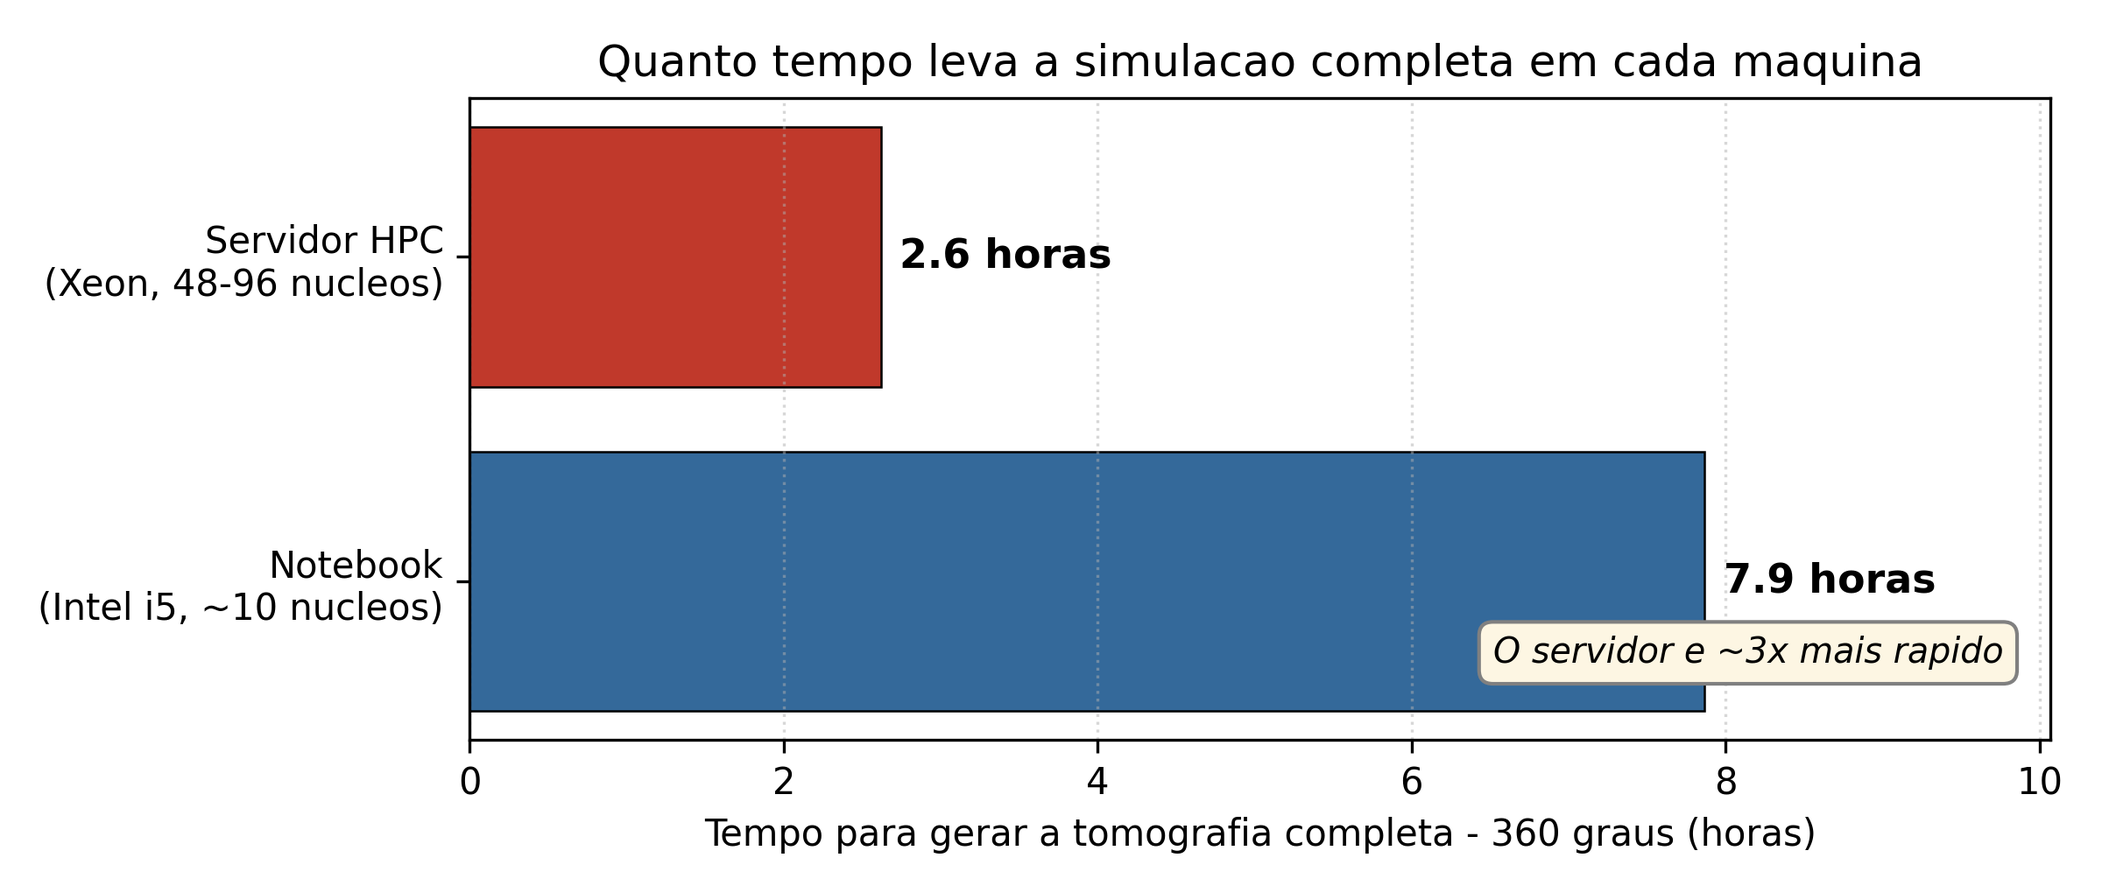
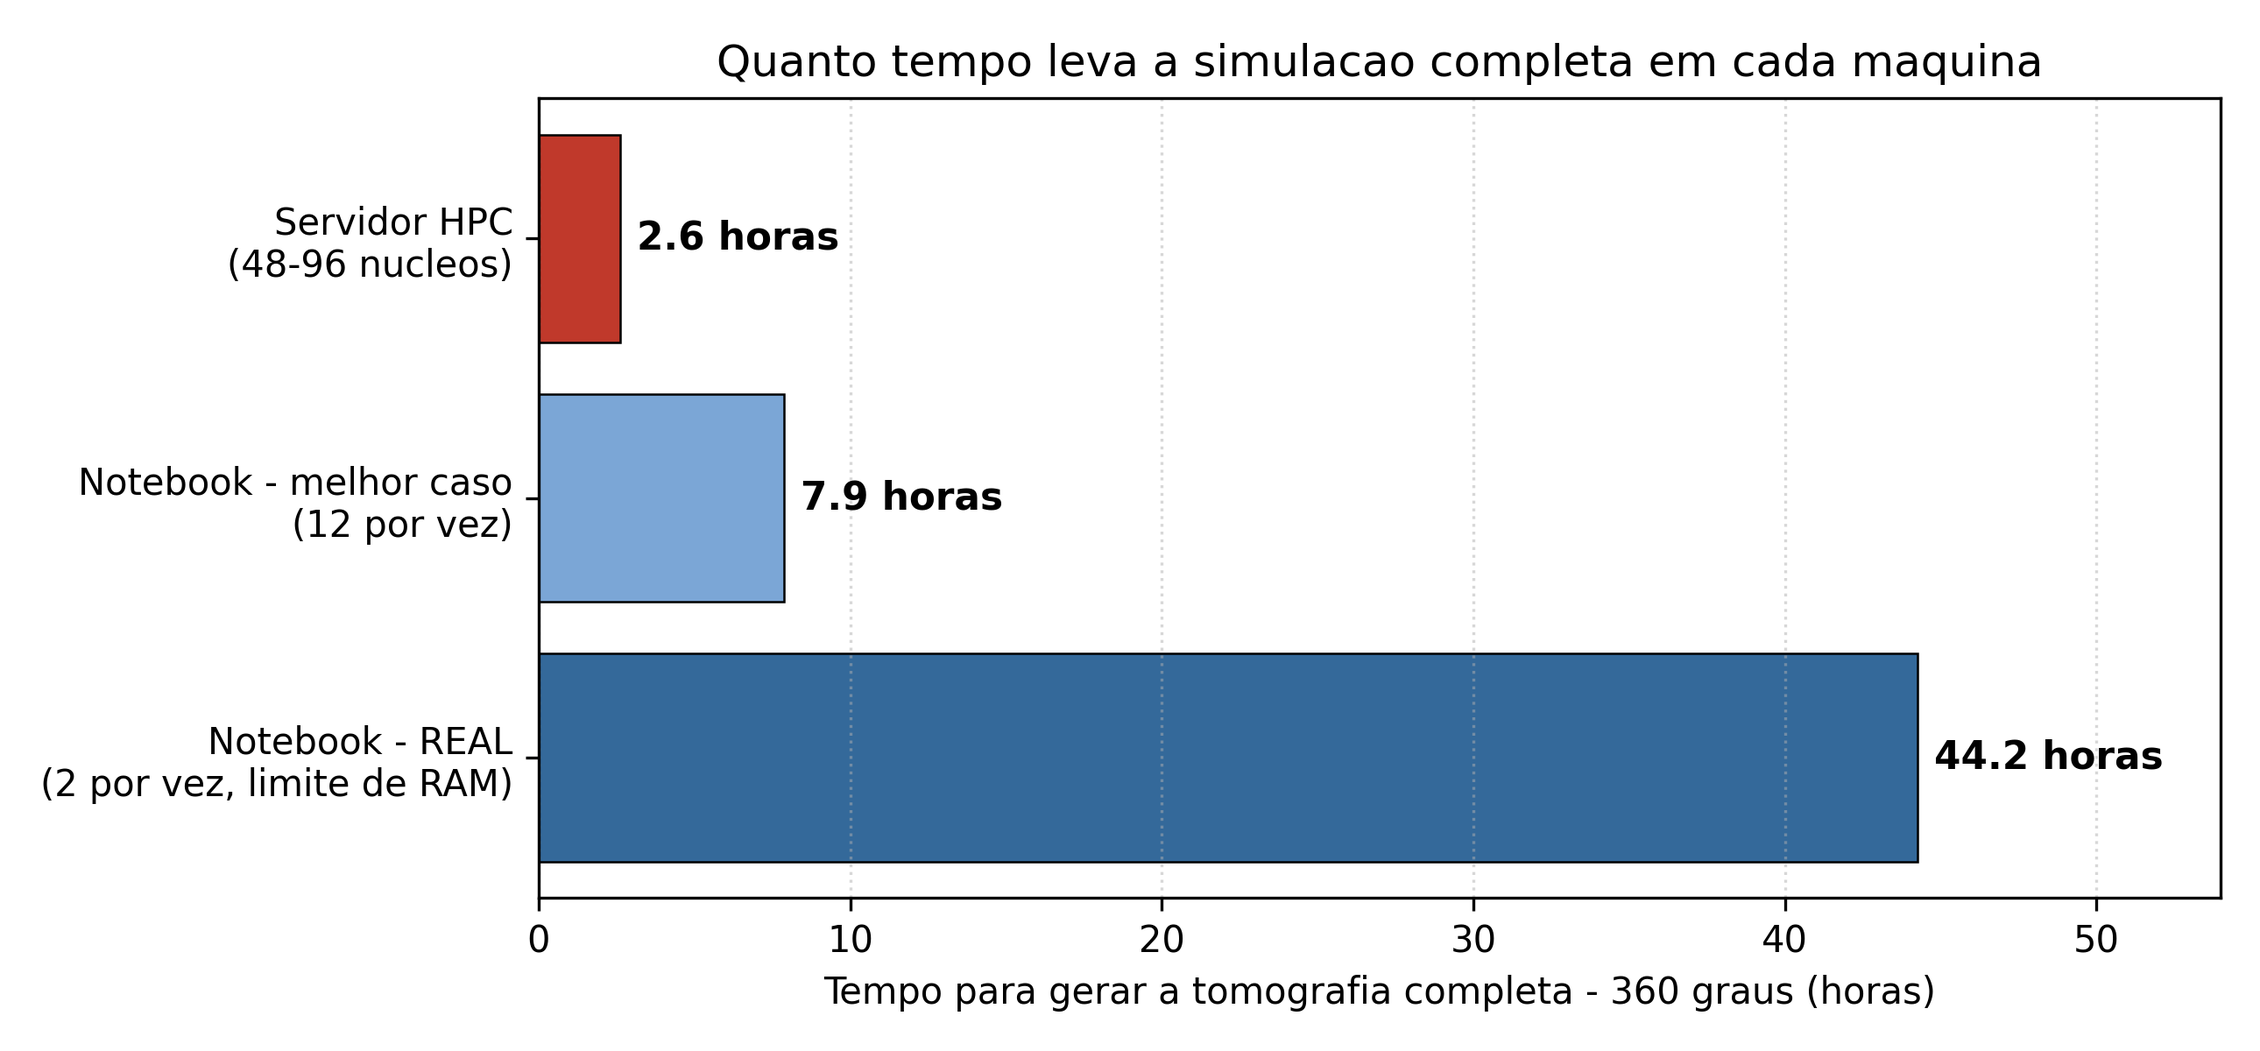
feat: atualizar análise de desempenho e gráficos de comparação entre máquinas

Changed region(s): [[0.0, 0.0304, 1.0, 0.9725]]

diff --git a/tomografias_npy/tcc_resultados/gerar_resumo_pdf.py b/tomografias_npy/tcc_resultados/gerar_resumo_pdf.py
@@ -1,0 +1,238 @@
+#!/usr/bin/env python3
+# -*- coding: utf-8 -*-
+"""Gera um PDF com o resumo passo a passo da analise de desempenho do TCC."""
+import os
+from reportlab.lib.pagesizes import A4
+from reportlab.lib.units import cm
+from reportlab.lib import colors
+from reportlab.lib.styles import getSampleStyleSheet, ParagraphStyle
+from reportlab.lib.enums import TA_JUSTIFY, TA_CENTER
+from reportlab.platypus import (SimpleDocTemplate, Paragraph, Spacer, Table,
+                                TableStyle, Image, HRFlowable, KeepTogether)
+
+HERE = os.path.dirname(os.path.abspath(__file__))
+OUT = r"C:\Users\wilso\Downloads\resumo_tcc_desempenho.pdf"
+
+NAVY = colors.HexColor("#1f3b63")
+RED = colors.HexColor("#c0392b")
+GRAY = colors.HexColor("#555555")
+LGRAY = colors.HexColor("#eef1f5")
+
+ss = getSampleStyleSheet()
+H1 = ParagraphStyle("H1", parent=ss["Heading1"], textColor=NAVY, fontSize=15,
+                    spaceBefore=14, spaceAfter=6)
+H2 = ParagraphStyle("H2", parent=ss["Heading2"], textColor=RED, fontSize=11.5,
+                    spaceBefore=10, spaceAfter=4)
+BODY = ParagraphStyle("BODY", parent=ss["BodyText"], fontSize=9.7, leading=14,
+                      alignment=TA_JUSTIFY, spaceAfter=5)
+BULLET = ParagraphStyle("BULLET", parent=BODY, leftIndent=12, bulletIndent=2,
+                        spaceAfter=2)
+TITLE = ParagraphStyle("TITLE", parent=ss["Title"], textColor=NAVY, fontSize=20,
+                       leading=24)
+SUB = ParagraphStyle("SUB", parent=ss["Normal"], fontSize=10.5, textColor=GRAY,
+                     alignment=TA_CENTER, spaceAfter=2)
+CAP = ParagraphStyle("CAP", parent=ss["Normal"], fontSize=8, textColor=GRAY,
+                     alignment=TA_CENTER, spaceBefore=2, spaceAfter=8)
+
+story = []
+
+
+def h1(t): story.append(Paragraph(t, H1))
+def h2(t): story.append(Paragraph(t, H2))
+def p(t): story.append(Paragraph(t, BODY))
+def b(t): story.append(Paragraph("&bull;&nbsp; " + t, BULLET))
+def sp(h=6): story.append(Spacer(1, h))
+
+
+def fig(name, caption, width=15*cm):
+    path = os.path.join(HERE, name)
+    if os.path.exists(path):
+        from reportlab.lib.utils import ImageReader
+        iw, ih = ImageReader(path).getSize()
+        img = Image(path, width=width, height=width*ih/iw)
+        story.append(KeepTogether([img, Paragraph(caption, CAP)]))
+
+
+# ---------------------------------------------------------------- capa
+story.append(Spacer(1, 10))
+story.append(Paragraph("Analise de Desempenho e Paralelizacao", TITLE))
+story.append(Paragraph("Pipeline de simulacao de dose CBCT (GATE 10 + Snakemake)", SUB))
+story.append(Paragraph("Resumo passo a passo &mdash; TCC", SUB))
+sp(4)
+story.append(HRFlowable(width="100%", color=NAVY, thickness=1.2))
+sp(10)
+
+# ---------------------------------------------------------------- 1
+h1("1. Objetivo da analise")
+p("Avaliar e documentar o desempenho do pipeline e justificar, de forma honesta, "
+  "por que a producao dos resultados definitivos foi feita no servidor de alto "
+  "desempenho (HPC) e nao na maquina local.")
+p("<b>Pergunta inicial:</b> &ldquo;da para estimar os dados do HPC tendo so os "
+  "locais + a configuracao?&rdquo; <b>Resposta:</b> em parte. O que importa para o "
+  "desempenho (a simulacao) foi <b>medido</b> de verdade; as demais etapas sao "
+  "desprezveis e nao precisam ser fabricadas.")
+
+# ---------------------------------------------------------------- 2
+h1("2. Hardware comparado")
+data = [["", "Servidor HPC", "Notebook (local)"],
+        ["Processador", "2x Xeon Gold 5318Y @2,1 GHz", "Intel Core i5-1335U"],
+        ["Nucleos fisicos", "48 (24 x 2 sockets)", "10 (2 performance + 8 efic.)"],
+        ["Threads logicos", "96", "12"],
+        ["RAM", "503 GB", "7,6 GB (ambiente WSL)"],
+        ["GPUs", "L40S 46GB, A5000, A4000", "(integrada)"]]
+t = Table(data, colWidths=[3.4*cm, 6.2*cm, 6.2*cm])
+t.setStyle(TableStyle([
+    ("BACKGROUND", (0, 0), (-1, 0), NAVY),
+    ("TEXTCOLOR", (0, 0), (-1, 0), colors.white),
+    ("FONTNAME", (0, 0), (-1, 0), "Helvetica-Bold"),
+    ("FONTNAME", (0, 1), (0, -1), "Helvetica-Bold"),
+    ("FONTSIZE", (0, 0), (-1, -1), 8.5),
+    ("ROWBACKGROUNDS", (0, 1), (-1, -1), [colors.white, LGRAY]),
+    ("GRID", (0, 0), (-1, -1), 0.4, colors.HexColor("#cccccc")),
+    ("VALIGN", (0, 0), (-1, -1), "MIDDLE"),
+    ("TOPPADDING", (0, 0), (-1, -1), 4),
+    ("BOTTOMPADDING", (0, 0), (-1, -1), 4)]))
+story.append(t)
+sp(4)
+p("Descoberta-chave: o nucleo do <b>notebook e ~2,4x mais rapido</b> que o do Xeon "
+  "(5075 vs 2119 particulas/s por thread). A vantagem do HPC <b>nao</b> e velocidade "
+  "por nucleo &mdash; e <b>quantidade</b> de nucleos.")
+
+# ---------------------------------------------------------------- 3
+h1("3. Onde o tempo do pipeline e gasto")
+p("As 6 etapas foram medidas pela diretiva <font face='Courier'>benchmark</font> do "
+  "Snakemake. A <b>simulacao Monte Carlo (GATE) concentra 81,4%</b> do tempo total; "
+  "as outras cinco etapas somadas dao apenas 48,3 s (18,6%).")
+p("<b>Conclusao:</b> a simulacao e o unico gargalo relevante. Por isso o estudo de "
+  "desempenho foca nela &mdash; e as demais etapas, por serem desprezveis, nao "
+  "precisaram de dados fabricados do HPC.")
+fig("fig1_perfil_etapas.png", "Figura 1 - Tempo por etapa (maquina local).")
+
+# ---------------------------------------------------------------- 4
+h1("4. Memoria (RAM)")
+p("O pico de memoria ocorre na segmentacao com o TotalSegmentator: <b>5,06 GB</b>. "
+  "Cabe folgado nas duas maquinas. Como o consumo depende do tamanho do dado "
+  "(volume 256^3) e do modelo, ele e <b>independente da plataforma</b> &mdash; os "
+  "valores locais valem como referencia tambem para o HPC.")
+
+# ---------------------------------------------------------------- 5
+h1("5. A simulacao e o paralelismo")
+b("A aquisicao de <b>360 graus</b> = 360 projecoes ao redor do paciente.")
+b("<b>n = 4</b>: cada execucao do script faz 4 projecoes. Logo, <b>360 / 4 = 90 "
+  "execucoes</b> cobrem a volta completa.")
+b("As 90 execucoes sao <b>independentes</b> (nao trocam informacao) &mdash; "
+  "&ldquo;paralelismo trivial&rdquo;: podem rodar todas ao mesmo tempo.")
+b("<b>Leva</b> = uma rodada de execucoes rodando simultaneamente. O numero de "
+  "levas determina o tempo total.")
+
+# ---------------------------------------------------------------- 6
+h1("6. A formula da escalabilidade")
+fb = ParagraphStyle("fb", parent=BODY, alignment=TA_CENTER, fontSize=11,
+                    textColor=NAVY, spaceBefore=4, spaceAfter=4)
+story.append(Paragraph("<b>Tempo total = teto(90 / nucleos) &times; tempo de uma execucao</b>", fb))
+p("Quanto mais nucleos, mais execucoes cabem por leva, menos levas, menos tempo. "
+  "<font face='Courier'>teto()</font> arredonda para cima, porque uma execucao e "
+  "indivisivel (nao da para fazer meia leva).")
+fig("fig3_escalabilidade.png", "Figura 2 - Tempo cai conforme aumentam os nucleos (HPC).", 14*cm)
+
+# ---------------------------------------------------------------- 7
+h1("7. Tempo da aquisicao completa em cada maquina")
+data2 = [["Configuracao", "1 execucao", "Por leva", "Levas", "Total"],
+         ["Servidor HPC (96 threads)", "2,62 h", "90", "teto(90/96)=1", "2,6 h"],
+         ["Servidor HPC (48 nucleos)", "2,62 h", "48", "teto(90/48)=2", "5,2 h"],
+         ["Notebook - melhor caso", "59 min", "12", "teto(90/12)=8", "7,9 h"],
+         ["Notebook - REAL (limite RAM)", "59 min", "2", "teto(90/2)=45", "44 h"]]
+t2 = Table(data2, colWidths=[5.6*cm, 2.4*cm, 2.0*cm, 3.0*cm, 2.2*cm])
+t2.setStyle(TableStyle([
+    ("BACKGROUND", (0, 0), (-1, 0), NAVY),
+    ("TEXTCOLOR", (0, 0), (-1, 0), colors.white),
+    ("FONTNAME", (0, 0), (-1, 0), "Helvetica-Bold"),
+    ("FONTSIZE", (0, 0), (-1, -1), 8.3),
+    ("ROWBACKGROUNDS", (0, 1), (-1, -1), [colors.white, LGRAY]),
+    ("GRID", (0, 0), (-1, -1), 0.4, colors.HexColor("#cccccc")),
+    ("ALIGN", (1, 0), (-1, -1), "CENTER"),
+    ("TEXTCOLOR", (4, 1), (4, 2), RED),
+    ("FONTNAME", (4, 1), (4, -1), "Helvetica-Bold"),
+    ("TOPPADDING", (0, 0), (-1, -1), 4),
+    ("BOTTOMPADDING", (0, 0), (-1, -1), 4)]))
+story.append(t2)
+sp(4)
+b("<b>Servidor:</b> limitado pelos <b>nucleos</b> (RAM de 503 GB sobra). As 90 "
+  "execucoes cabem em 1 leva -&gt; 2,6 h.")
+b("<b>Notebook:</b> limitado pela <b>RAM</b> (7,6 GB / 2,8 GB por execucao = so 2 "
+  "por vez) -&gt; 45 levas -&gt; ~44 h reais. Os 7,9 h sao so o melhor caso "
+  "teorico (se tivesse RAM para 12 execucoes).")
+fig("fig4_comparacao_maquinas.png", "Figura 3 - Tempo total por maquina (mesma qualidade, 5x10^6).", 14*cm)
+
+# ---------------------------------------------------------------- 8
+h1("8. Conceitos-chave (glossario)")
+b("<b>Execucao (ou &lsquo;job&rsquo;):</b> uma rodada do script de simulacao = 4 "
+  "projecoes (n=4). Sao 90 para cobrir os 360 graus.")
+b("<b>Leva:</b> rodada de execucoes que rodam ao mesmo tempo. teto(90/nucleos) = "
+  "numero de levas.")
+b("<b>Nucleo fisico vs thread logico:</b> o HPC tem 48 nucleos fisicos que, com "
+  "hyperthreading, viram 96 threads. Mas 2 threads dividem 1 nucleo &mdash; nao e o "
+  "dobro de poder (ganho de ~20-40%). Por isso o tempo real fica entre 2,6 h "
+  "(96 threads) e 5,2 h (48 nucleos).")
+b("<b>n = 4:</b> tamanho do &lsquo;pedaco&rsquo; (projecoes por execucao). Controla "
+  "em quantas execucoes os 360 graus sao divididos.")
+b("<b>pps (particulas/segundo):</b> velocidade da simulacao por thread. Mede o "
+  "desempenho por nucleo, independente de quantas projecoes.")
+
+# ---------------------------------------------------------------- 9
+h1("9. Integracao no Snakemake")
+p("<b>Antes:</b> um script de shell externo (<font face='Courier'>for ... nohup &amp;</font>) "
+  "disparava as 90 execucoes &mdash; rapido, mas sem controle (saturava maquina fraca).")
+p("<b>Agora:</b> a varredura angular foi integrada ao Snakemake por um "
+  "<font face='Courier'>wildcard</font> de angulo. A propria ferramenta gera as 90 "
+  "execucoes e paraleliza com <font face='Courier'>--cores N</font> (N execucoes por "
+  "vez; o resto e enfileirado). Nao precisa de 90 nucleos.")
+b("No HPC: <font face='Courier'>snakemake --cores 48</font>")
+b("No notebook (demo): <font face='Courier'>snakemake --cores 2 --latency-wait 30 "
+  "--config gate_angulo_final=16</font>")
+
+# ---------------------------------------------------------------- 10
+h1("10. Problemas encontrados e resolvidos")
+b("<b>Corrida no FDK_label:</b> o arquivo de rotulos era gravado sem identificador, "
+  "entao varias execucoes paralelas escreviam por cima umas das outras. "
+  "<b>Correcao:</b> gravar so na primeira execucao (inicio==0) -&gt; um unico "
+  "FDK_label.mhd/raw/json.")
+b("<b>OOM (falta de memoria) no notebook:</b> com --cores 4, 4 execucoes x 2,8 GB "
+  "estouravam os 7,6 GB e o sistema matava processos. <b>Correcao:</b> --cores 2.")
+b("<b>Latencia do WSL:</b> o Snakemake nao &lsquo;via&rsquo; os arquivos a tempo. "
+  "<b>Correcao:</b> --latency-wait 30.")
+
+# ---------------------------------------------------------------- 11
+h1("11. Integridade dos dados (para a banca)")
+b("<b>Medido de verdade:</b> tempos e RAM por etapa; pps das duas maquinas; tempo "
+  "de uma execucao (59 min local, 2,62 h HPC).")
+b("<b>Estimado (extrapolacao linear, rotulado):</b> os tempos das aquisicoes "
+  "completas (7,9 h; 44 h; 2,6 h; 5,2 h) = tempo de uma execucao x numero de levas. "
+  "Valido porque o tempo de Monte Carlo escala linearmente com o numero de particulas.")
+b("<b>Coerencia obrigatoria no texto:</b> o HPC usou <b>5x10^6</b> primarias por "
+  "projecao; o notebook usou <b>1x10^6</b> nos benchmarks. A comparacao de tempo "
+  "(fig. 3) usa <b>5x10^6 nas duas</b> &mdash; mesma qualidade, comparacao justa.")
+b("<b>Nao foi inventado nada:</b> os tempos das demais ferramentas no HPC nao foram "
+  "fabricados &mdash; por serem desprezveis, sua variacao nao muda a conclusao.")
+
+# ---------------------------------------------------------------- 12
+h1("12. Entregaveis gerados")
+b("Figuras (300 dpi, escala linear): perfil por etapa, memoria, escalabilidade, "
+  "comparacao entre maquinas.")
+b("<font face='Courier'>desempenho.tex</font>: secao de resultados pronta (tabelas, "
+  "equacoes, o calculo dos tempos passo a passo).")
+b("<font face='Courier'>paralelizacao.tex</font>: paragrafo + apendice com o script.")
+b("Snakefile modificado (wildcard de angulo) e correcoes no minDetec_DT.py, em "
+  "branch git separada (<font face='Courier'>feature/snakemake-360-angulos</font>).")
+
+sp(8)
+story.append(HRFlowable(width="100%", color=colors.HexColor("#cccccc"), thickness=0.6))
+story.append(Paragraph("Documento gerado automaticamente como resumo da analise. "
+                       "Numeros conferidos contra os arquivos stat-*.txt e os "
+                       "benchmarks do Snakemake.", CAP))
+
+doc = SimpleDocTemplate(OUT, pagesize=A4, leftMargin=2*cm, rightMargin=2*cm,
+                        topMargin=1.6*cm, bottomMargin=1.6*cm,
+                        title="Resumo - Desempenho do pipeline (TCC)")
+doc.build(story)
+print("PDF gerado:", OUT)

diff --git a/tomografias_npy/tcc_resultados/desempenho.tex b/tomografias_npy/tcc_resultados/desempenho.tex
@@ -146,8 +146,9 @@ A Figura~\ref{fig:comparacao} resume, de forma direta, o impacto prático da
 escolha de hardware: o tempo necessário para gerar a aquisição completa de
 $360^\circ$ em cada máquina, com cada uma utilizando todos os seus núcleos. No
 servidor HPC, a aquisição conclui em cerca de \textbf{2,6~h}; na estação local
-(\textit{notebook} com processador i5), em cerca de \textbf{7,9~h} --- ou seja, o
-servidor é aproximadamente \textbf{três vezes mais rápido}.
+(\textit{notebook} com processador i5), em \textbf{7,9~h} no melhor caso ou cerca
+de \textbf{44~h} na prática --- ou seja, o servidor é de \textbf{três a dezessete
+vezes mais rápido}, conforme detalhado a seguir.
 
 Esses tempos seguem diretamente da Equação~\ref{eq:escalabilidade}, aplicada à
 duração de \emph{uma} execução medida em cada máquina. Na estação local, cada
@@ -158,27 +159,61 @@ $\left\lceil 90/12 \right\rceil = 8$ levas, totalizando
 T_{\text{local}} = 8 \times 59~\text{min} = 472~\text{min} \approx 7{,}9~\text{h}.
 \label{eq:tempo-local}
 \end{equation}
-No servidor, embora cada execução leve mais tempo (2,62~h), seus 90 a 96 núcleos
-processam todas em uma única leva ($\left\lceil 90/96 \right\rceil = 1$),
-resultando em $1 \times 2{,}62~\text{h} \approx 2{,}6$~h.
+Esse valor, contudo, é um limite otimista: ele pressupõe 12 execuções
+simultâneas, mas cada execução ocupa cerca de 2,8~GB de RAM e a estação dispõe de
+apenas 7,6~GB, comportando na prática cerca de 2 execuções por vez. Sob essa
+restrição de memória, as 90 execuções exigem $\left\lceil 90/2 \right\rceil = 45$
+levas, ou seja, $45 \times 59~\text{min} = 2655~\text{min} \approx 44~\text{h}$ ---
+o tempo \emph{real} da estação local. No servidor, embora cada execução leve mais
+tempo (2,62~h), seus 90 a 96 núcleos processam todas em uma única leva
+($\left\lceil 90/96 \right\rceil = 1$), resultando em
+$1 \times 2{,}62~\text{h} \approx 2{,}6$~h.
 
-A diferença não decorre da velocidade por núcleo --- na qual o \textit{notebook}
-é, inclusive, ligeiramente superior --- mas do número de núcleos disponíveis para
-processar as execuções em paralelo: o servidor distribui as 90 execuções por seus
-48 a 96 núcleos, enquanto o \textit{notebook} dispõe de cerca de 10. Além de mais
-rápido, o servidor viabiliza maior qualidade estatística (mais partículas
-simuladas por projeção) dentro de um tempo prático. O valor do \textit{notebook}
-é uma estimativa otimista, pois processadores de baixo consumo reduzem a
-frequência sob carga total prolongada.
+A Tabela~\ref{tab:levas} consolida os três cenários. A mesma fórmula
+$T = \lceil 90/\text{núcleos} \rceil \times t_{\text{exec}}$ se aplica a todos;
+mudam apenas a duração de uma execução e quantas executam ao mesmo tempo (uma
+``leva'' é uma rodada de execuções concorrentes, e o número de levas determina o
+tempo total).
+
+\begin{table}[htbp]
+\centering
+\caption{Decomposição do tempo total da aquisição completa de $360^\circ$ pela
+relação $T = \lceil 90/\text{núcleos} \rceil \times t_{\text{exec}}$, em cada
+configuração de hardware.}
+\label{tab:levas}
+\begin{tabular}{lcccc}
+\toprule
+\textbf{Configuração} & \textbf{$t_{\text{exec}}$} & \textbf{Simultâneas} & \textbf{Levas} & \textbf{Total} \\
+\midrule
+Servidor HPC (96 núcleos)      & 2,62~h & 90 & $\lceil 90/96 \rceil = 1$  & \textbf{2,6~h} \\
+Notebook --- melhor caso (12)  & 59~min & 12 & $\lceil 90/12 \rceil = 8$  & 7,9~h \\
+Notebook --- real, RAM (2)     & 59~min & 2  & $\lceil 90/2 \rceil = 45$  & 44~h \\
+\bottomrule
+\end{tabular}
+\end{table}
+
+Um ponto merece destaque: cada execução é, individualmente, \emph{mais lenta} no
+servidor (2,62~h) do que no \textit{notebook} (59~min), pois o núcleo do Xeon
+opera em frequência menor. Ainda assim o servidor conclui a aquisição muito antes,
+porque processa as 90 execuções em uma única leva, enquanto o \textit{notebook}
+as processa em 45 levas. Confirma-se, assim, que o ganho do ambiente HPC decorre
+do \emph{número de núcleos}, e não da velocidade de cada um.
+
+Cabe destacar, por fim, que ambas as máquinas executam a mesma qualidade
+estatística ($5\times10^{6}$ primárias por projeção): a diferença de tempo decorre
+exclusivamente do hardware, e não de uma máquina simular menos partículas que a
+outra. A Figura~\ref{fig:comparacao} resume os três valores --- servidor em
+2,6~h; estação local em 7,9~h (melhor caso) ou cerca de 44~h (cenário real,
+limitado pela memória).
 
 \begin{figure}[htbp]
 \centering
 \includegraphics[width=0.97\textwidth]{fig4_comparacao_maquinas.png}
-\caption{Tempo necessário para gerar a aquisição completa de $360^\circ$ em cada
-máquina, utilizando todos os núcleos disponíveis. O servidor HPC conclui em cerca
-de 2,6~h, contra cerca de 7,9~h na estação local --- aproximadamente três vezes
-mais rápido. O valor da estação local é uma estimativa (não considera a redução
-de frequência do \textit{notebook} sob carga total).}
+\caption{Tempo para gerar a aquisição completa de $360^\circ$ (mesma qualidade,
+$5\times10^{6}$ primárias por projeção). O servidor HPC conclui em cerca de
+2,6~h. A estação local aparece em dois cenários: o melhor caso teórico (7,9~h,
+com 12 execuções simultâneas) e o cenário real (cerca de 44~h), em que a memória
+disponível permite apenas duas execuções por vez.}
 \label{fig:comparacao}
 \end{figure}
 

diff --git a/tomografias_npy/tcc_resultados/gerar_resultados.py b/tomografias_npy/tcc_resultados/gerar_resultados.py
@@ -159,26 +159,26 @@ with open(csv_path, "w", encoding="utf-8") as f:
 def par_h(job_h, p):
     return math.ceil(N_JOBS / p) * job_h
 
-# Comparacao SIMPLES: cada maquina usando TODOS os seus nucleos.
-hpc_full = par_h(HPC_JOB_H, 96)        # ~2,6 h
-loc_full = par_h(LOC_JOB_H, 12)        # ~7,9 h
+# Comparacao: cada maquina e quantas execucoes consegue rodar ao mesmo tempo.
+hpc_full = par_h(HPC_JOB_H, 96)        # 2,6 h  -> 1 leva  (90 nucleos livres)
+loc_opt  = par_h(LOC_JOB_H, 12)        # 7,9 h  -> 8 levas (12 execucoes juntas)
+loc_real = par_h(LOC_JOB_H, 2)         # 44 h   -> 45 levas (2 juntas, limite de RAM)
 
-names4 = ["Notebook\n(Intel i5, ~10 nucleos)", "Servidor HPC\n(Xeon, 48-96 nucleos)"]
-vals4  = [loc_full, hpc_full]
-cols4  = ["#34699a", "#c0392b"]
+names4 = ["Notebook - REAL\n(2 por vez, limite de RAM)",
+          "Notebook - melhor caso\n(12 por vez)",
+          "Servidor HPC\n(48-96 nucleos)"]
+vals4  = [loc_real, loc_opt, hpc_full]
+cols4  = ["#34699a", "#7ba6d6", "#c0392b"]
 
-fig, ax = plt.subplots(figsize=(8, 3.4))
+fig, ax = plt.subplots(figsize=(8.6, 4.0))
 bars = ax.barh(names4, vals4, color=cols4, edgecolor="black", linewidth=0.6)
 ax.set_xlabel("Tempo para gerar a tomografia completa - 360 graus (horas)")
 ax.set_title("Quanto tempo leva a simulacao completa em cada maquina")
 for b, t in zip(bars, vals4):
-    ax.text(t + max(vals4)*0.015, b.get_y()+b.get_height()/2,
-            f"{t:.1f} horas", va="center", fontsize=11, fontweight="bold")
-ax.set_xlim(0, max(vals4) * 1.28)
+    ax.text(t + max(vals4)*0.012, b.get_y()+b.get_height()/2,
+            f"{t:.1f} horas", va="center", fontsize=10.5, fontweight="bold")
+ax.set_xlim(0, max(vals4) * 1.22)
 ax.grid(axis="x", ls=":", alpha=0.5)
-ax.text(0.97, 0.12, "O servidor e ~%.0fx mais rapido" % (loc_full / hpc_full),
-        transform=ax.transAxes, ha="right", fontsize=9.5, style="italic",
-        bbox=dict(boxstyle="round,pad=0.4", fc="#fdf6e3", ec="gray"))
 fig.tight_layout()
 fig.savefig(os.path.join(OUT, "fig4_comparacao_maquinas.png"), dpi=300)
 plt.close(fig)
